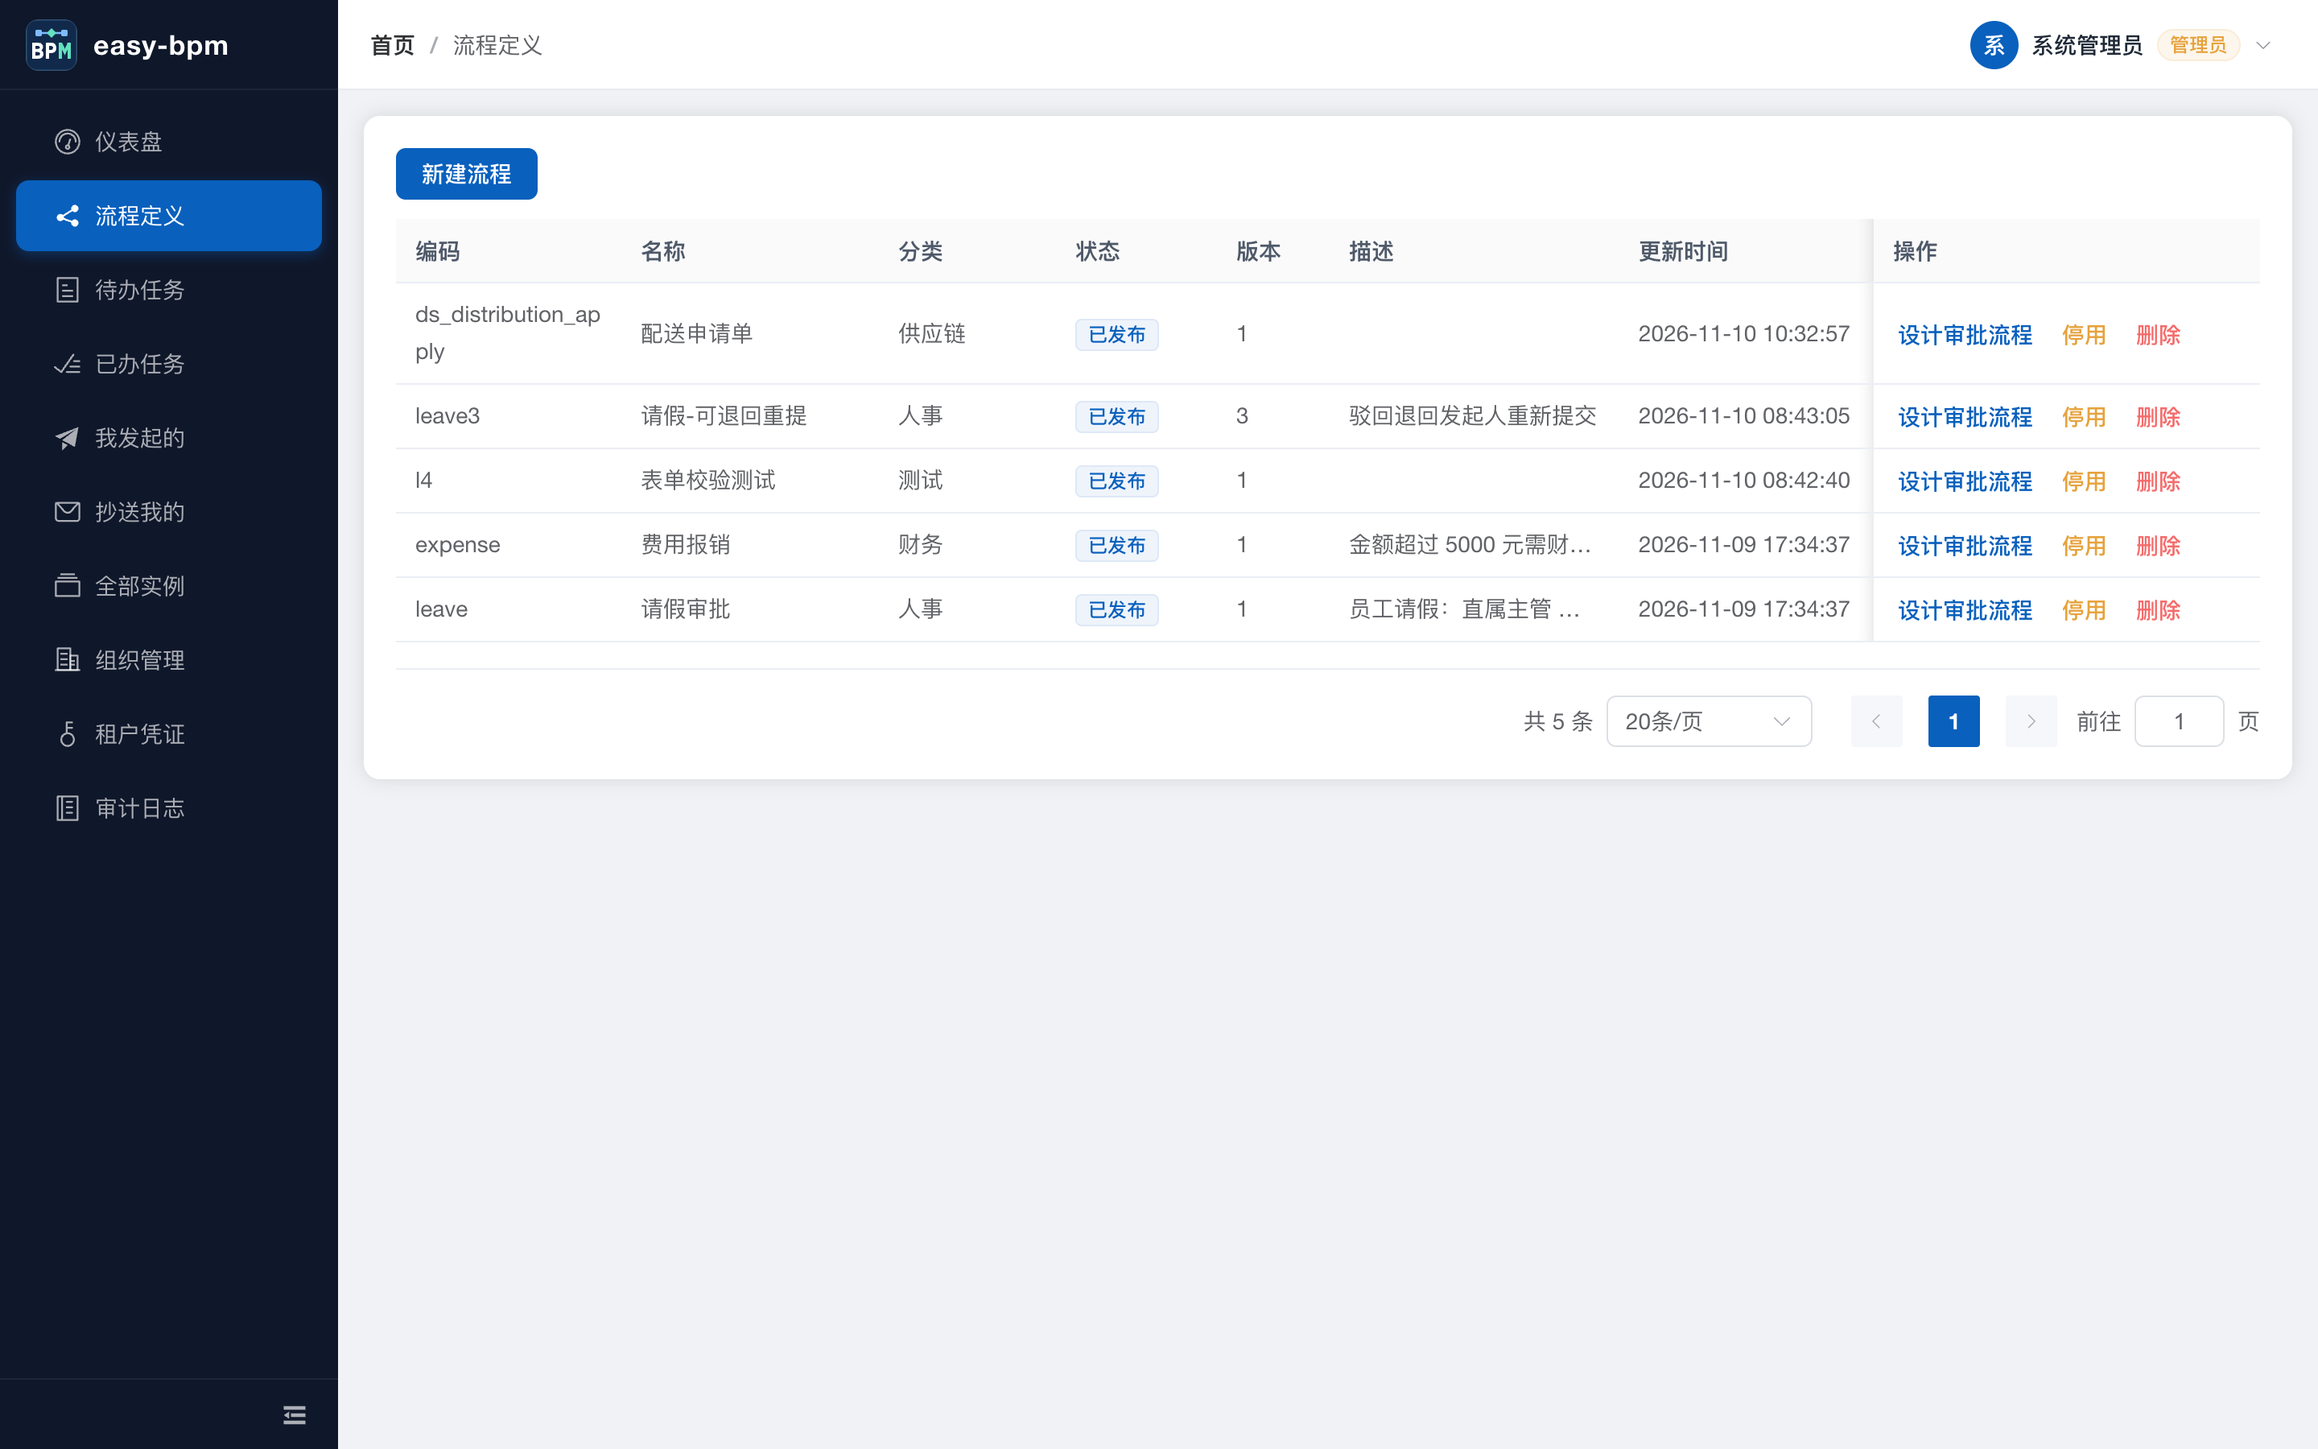
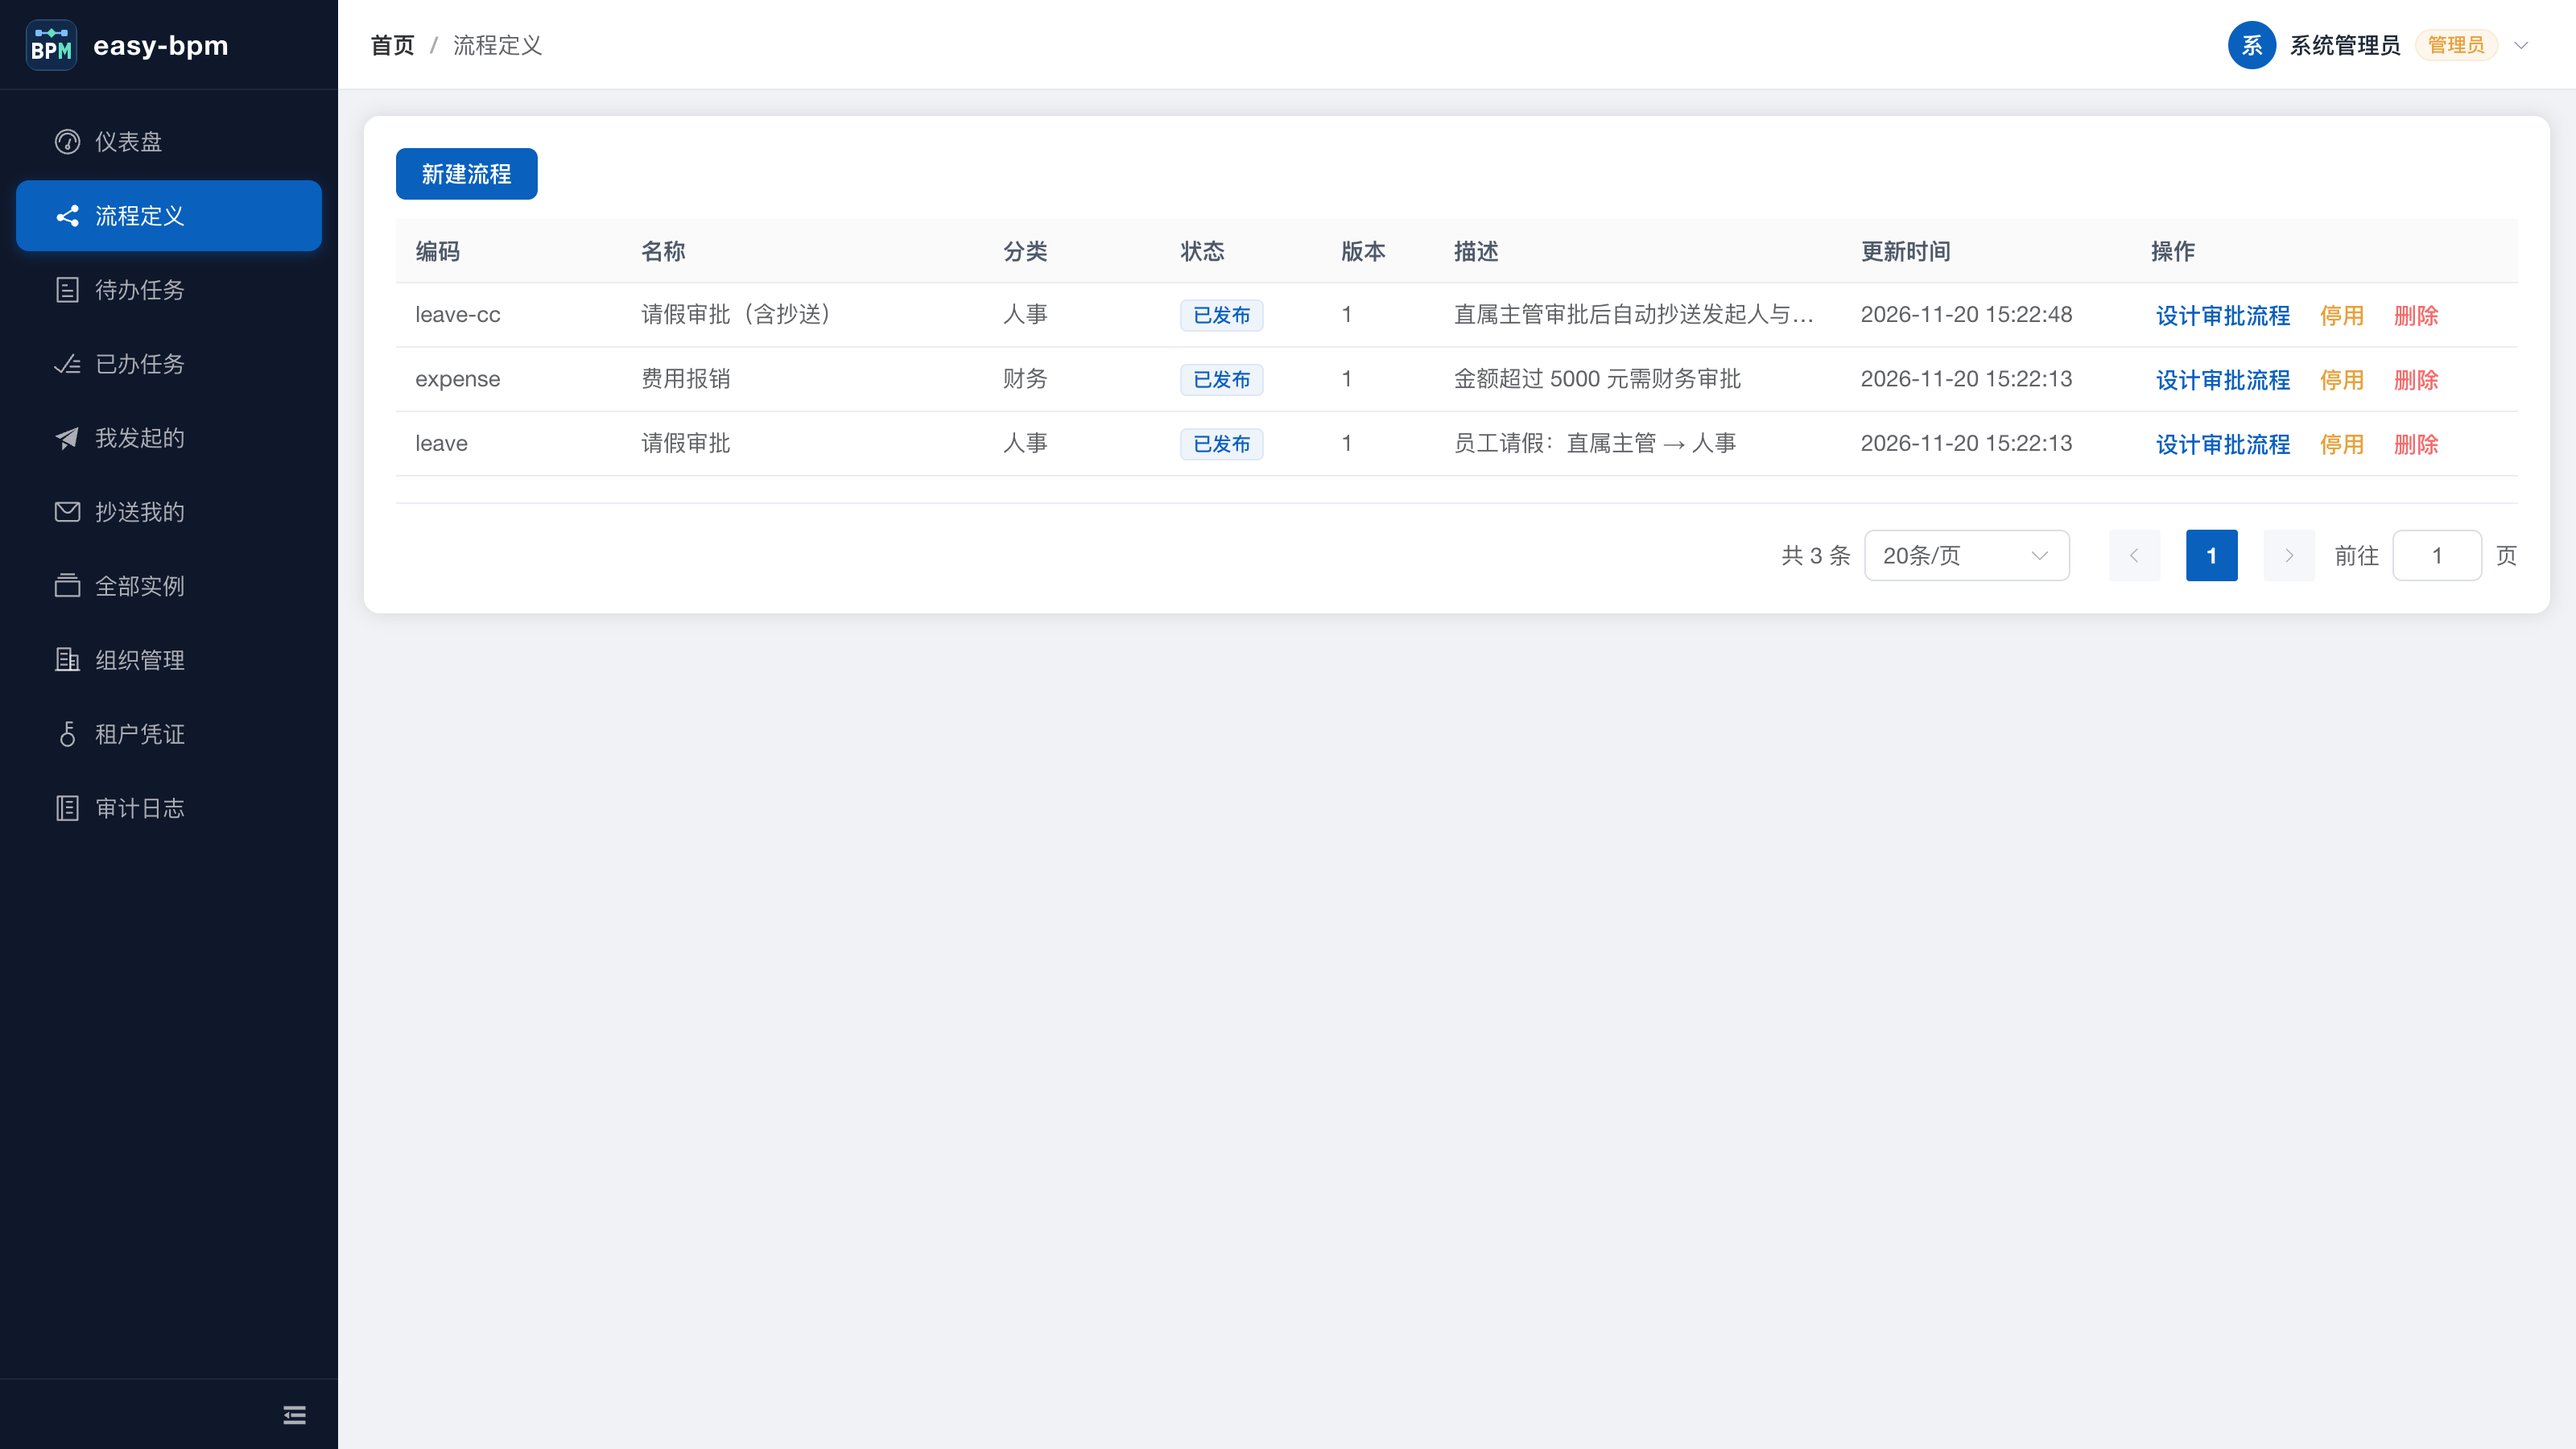
docs(console): 全量刷新控制台系统截图并补充截图脚本
- docs/images 14 张截图全部更新（2026-11-20 实机重拍），新增 04b 设计器插入节点菜单
- demo 造数：6 个实例覆盖通过/驳回/运行中/转办/抄送，待办、已办、抄送、看板均有数据
- docs/console.md：设计器一节补充插入节点菜单说明与截图，审批详情补强制转办说明
- tools/screenshots：新增 seed.mjs（演示数据幂等造数）与 shoot.mjs（playwright-core + 本机 Chrome 截图）
- 顺带重置本地演示库并重建 leave-cc 演示流程（仅本地数据，无迁移脚本）

diff --git a/docs/console.md b/docs/console.md
@@ -46,7 +46,9 @@
 ![审批流程设计器](images/04-flow-design.png)
 
 - 可视化编排：`发起人` → 若干审批/抄送节点 → `结束`。发起与结束为固定节点（绿/灰特殊配色 + 「流程固定」角标），不可编辑。
-- 节点间以箭头连接，箭头上的 **＋** 即在两位插入新节点；点击已有节点可再次编辑属性。
+- 节点间以箭头连接，箭头上的 **＋** 即可在任意两个节点之间插入新节点（发起人之后、结束之前的任意位置）；点击 **＋** 弹出类型选择菜单（审批节点 / 抄送节点 / 条件分支），点击已有节点可再次编辑属性。
+
+![设计器插入节点菜单](images/04b-flow-design-insert.png)
 - 审批人类型：指定人员 / 指定角色 / 发起人直属主管（支持 N 级）/ 部门主管 / 表单字段 / 发起人本人。
 - 审批方式（或签 / 会签）、驳回策略（直接结束 / 退回发起人）、**审批人为空兜底**（拦截 / 自动通过 / 自动驳回）均为必填配置。
 - **条件分支（排他网关）**：节点列表中插入「条件分支」节点，按声明顺序 FIRST-MATCH 选路，最后一个条件留空的分支即默认分支（发布时强制校验）。条件以 `formData` 顶层字段为根编写 SpEL（如 `amount > 10000`），支持两种编辑模式：
@@ -104,7 +106,7 @@
 
 - 概要区：流程、发起人、当前节点、业务主键、起止时间。
 - **审批时间线**：发起 / 审批 / 驳回 / 转交 / 撤回 / 抄送 / 自动通过全量留痕，含操作人与时间。
-- **当前待办**：节点、处理人、到达时间，管理员可据此判断卡在谁那里。
+- **当前待办**：节点、处理人、到达时间，管理员可据此判断卡在谁那里，并可直接**强制转办**（改派给同租户在职人员，解决审批人离职/停用导致的卡单，时间线留痕并写 `ADMIN_TRANSFER` 审计）。
 - **表单数据**：按 `formSchema` 只读渲染（未提供 schema 时降级为键值对），并可展开原始 JSON。
 - 待办人视角下此处出现同意/驳回/转交操作区。
 
